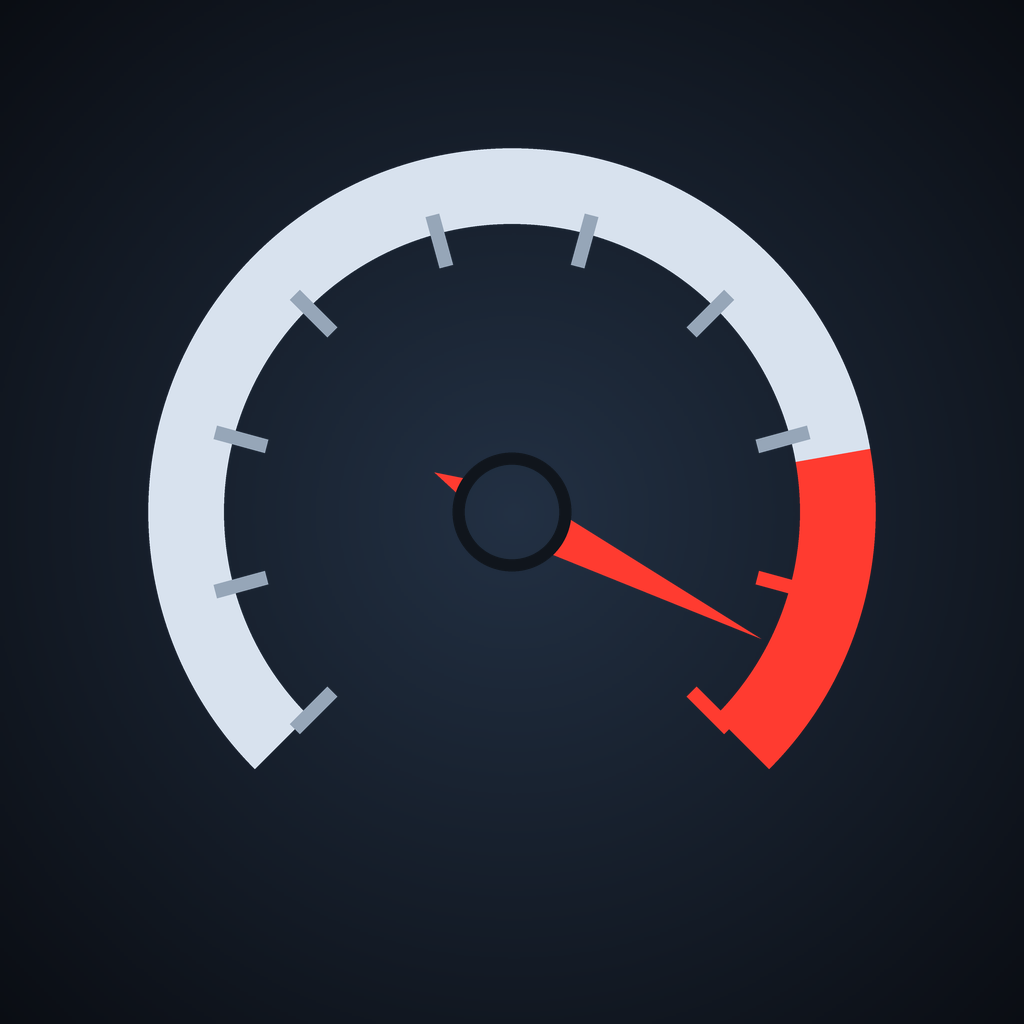
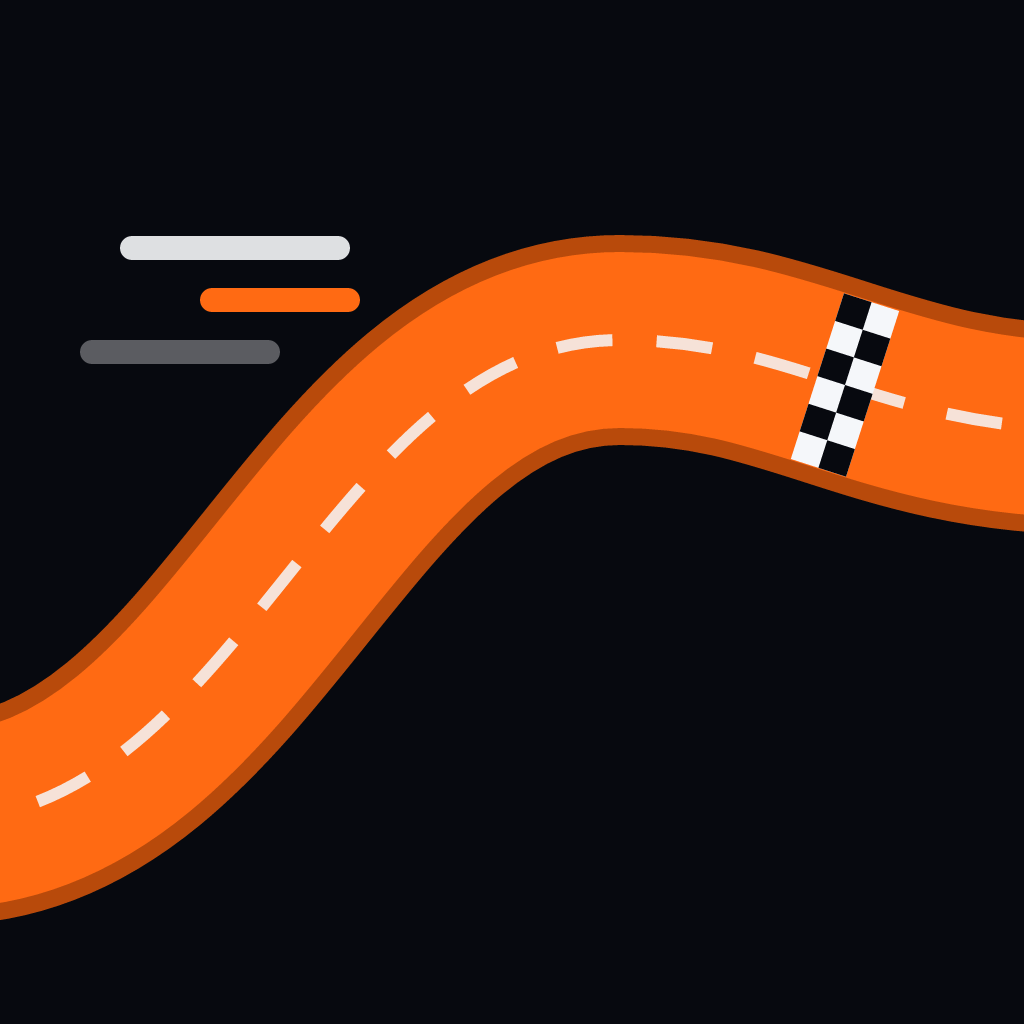
Add LLC contact email to support and privacy pages
The support page now lists info@hyperionstudios.org as the main way to get
help, with GitHub issues as a second option, since App Review expects an
easy way to reach the publisher. The privacy policy names Hyperion Studios
LLC as publisher and gives the same address for questions.

Also:
- correct two stale support tips: the app finds the portal on its own, and
  demo mode starts from the Speed tab button or the Settings switch
- use the Redline app icon and favicon on the site
- track apps/mobile/store.config.json, the EAS metadata source for the App
  Store listing, with the hotwheelsid keyword added
- note in the smoke-test section why build 13 needs a full pass

diff --git a/support/index.html b/support/index.html
@@ -62,22 +62,28 @@
 
       <h2>Quick checks</h2>
       <ul>
-        <li>Turn on the Race Portal before tapping Connect portal.</li>
+        <li>Turn on the Race Portal. Redline ID looks for it automatically while the app is open.</li>
         <li>Allow Bluetooth access when iOS asks.</li>
         <li>Keep the iPhone or iPad close to the portal during the first connection.</li>
-        <li>Use Demo mode on the Speed tab to explore the app without portal hardware.</li>
+        <li>
+          To explore without portal hardware, tap No portal? Try demo mode on the Speed
+          tab, or turn on Settings → Start in demo mode.
+        </li>
         <li>If a connection stops responding, power-cycle the portal and reconnect.</li>
       </ul>
 
       <div class="card">
         <strong>Need help or found a bug?</strong>
         <p>
-          Open a public issue with your device model, iOS version, portal firmware if
-          known, and the steps that led to the problem.
+          Email <a href="mailto:info@hyperionstudios.org">info@hyperionstudios.org</a> with your device model, iOS
+          version, portal firmware if known, and the steps that led to the problem.
         </p>
-        <a href="https://github.com/burkben/HotWheelsID/issues/new/choose"
-          >Open a support issue</a
-        >
+        <p>
+          You can also
+          <a href="https://github.com/burkben/HotWheelsID/issues/new/choose"
+            >open a public issue on GitHub</a
+          >.
+        </p>
       </div>
 
       <h2>Compatibility</h2>
@@ -92,8 +98,8 @@
     </main>
     <footer>
       <div class="wrap">
-        Redline ID is independent and is not affiliated with, endorsed by, or sponsored
-        by Mattel, Inc.
+        Redline ID is published by Hyperion Studios LLC. It is independent and is not
+        affiliated with, endorsed by, or sponsored by Mattel, Inc.
       </div>
     </footer>
   </body>

diff --git a/privacy/index.html b/privacy/index.html
@@ -134,13 +134,14 @@
 
     <main class="wrap">
       <h1>Privacy Policy</h1>
-      <p class="updated">Last updated: 2026-07-25</p>
+      <p class="updated">Last updated: 2026-11-19</p>
 
       <p>
         Redline ID ("the app") is a free, open-source utility that connects over
         Bluetooth Low Energy (BLE) to a discontinued toy car race portal and shows live
-        speed and lap times. This policy explains what the app does — and does not do —
-        with your data.
+        speed and lap times. Redline ID is published by Hyperion Studios LLC ("we",
+        "us"). This policy explains what the app does — and does not do — with your
+        data.
       </p>
 
       <h2>Summary</h2>
@@ -224,9 +225,8 @@
       </p>
       <p>
         The destination you select receives the exported content under its own privacy
-        terms. The Redline ID developer receives nothing unless you deliberately select
-        or separately send the export to the developer. We do not sell, rent, or
-        disclose app data.
+        terms. We receive nothing unless you deliberately select or separately send the
+        export to us. We do not sell, rent, or disclose app data.
       </p>
 
       <h2>Children's privacy</h2>
@@ -243,7 +243,8 @@
 
       <h2>Contact</h2>
       <p>
-        Questions about this policy can be filed as an issue at
+        Questions about this policy can be emailed to Hyperion Studios LLC at
+        <a href="mailto:info@hyperionstudios.org">info@hyperionstudios.org</a>. More help is available at
         <a href="../support/">Redline ID Support</a>.
       </p>
     </main>
